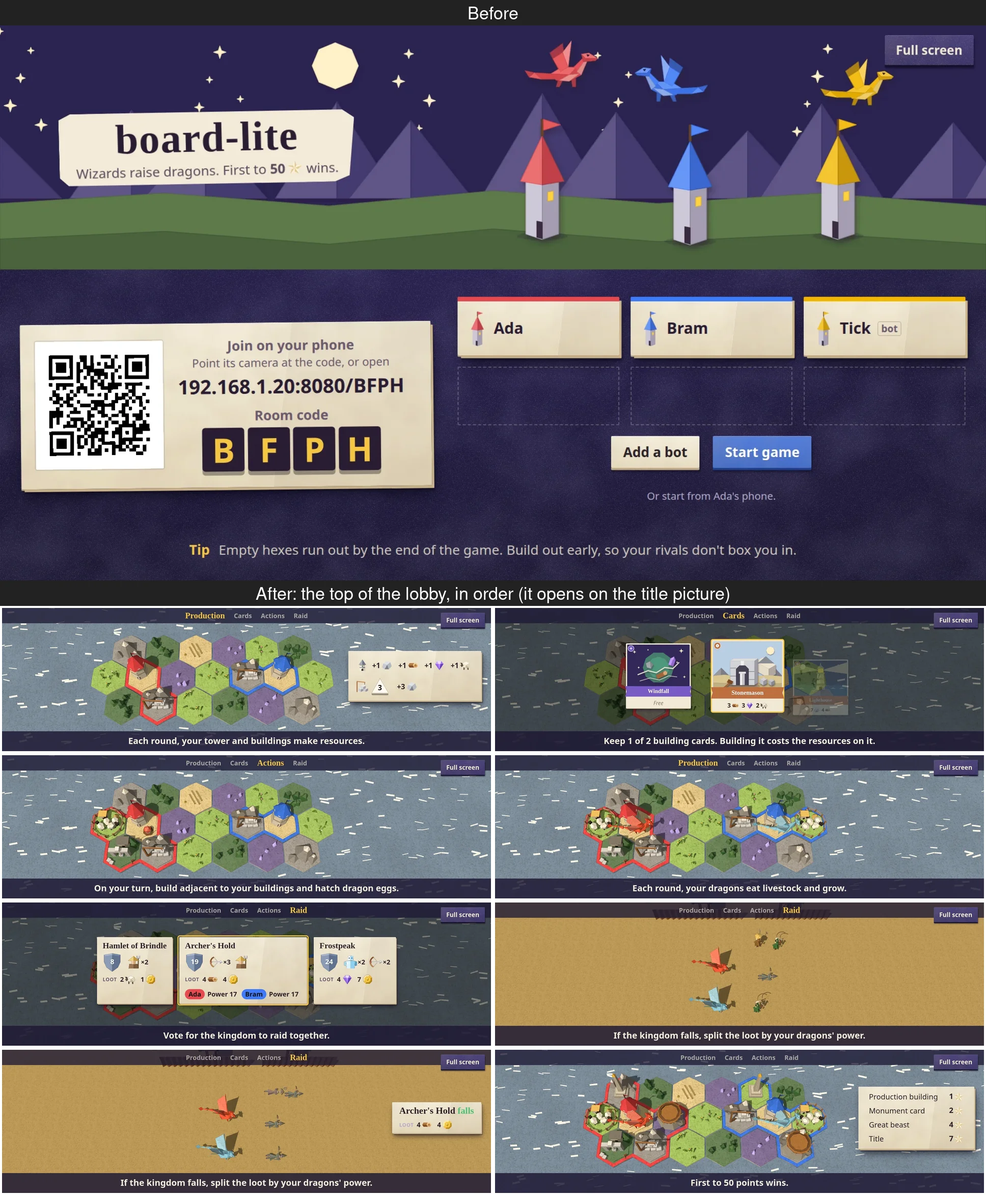
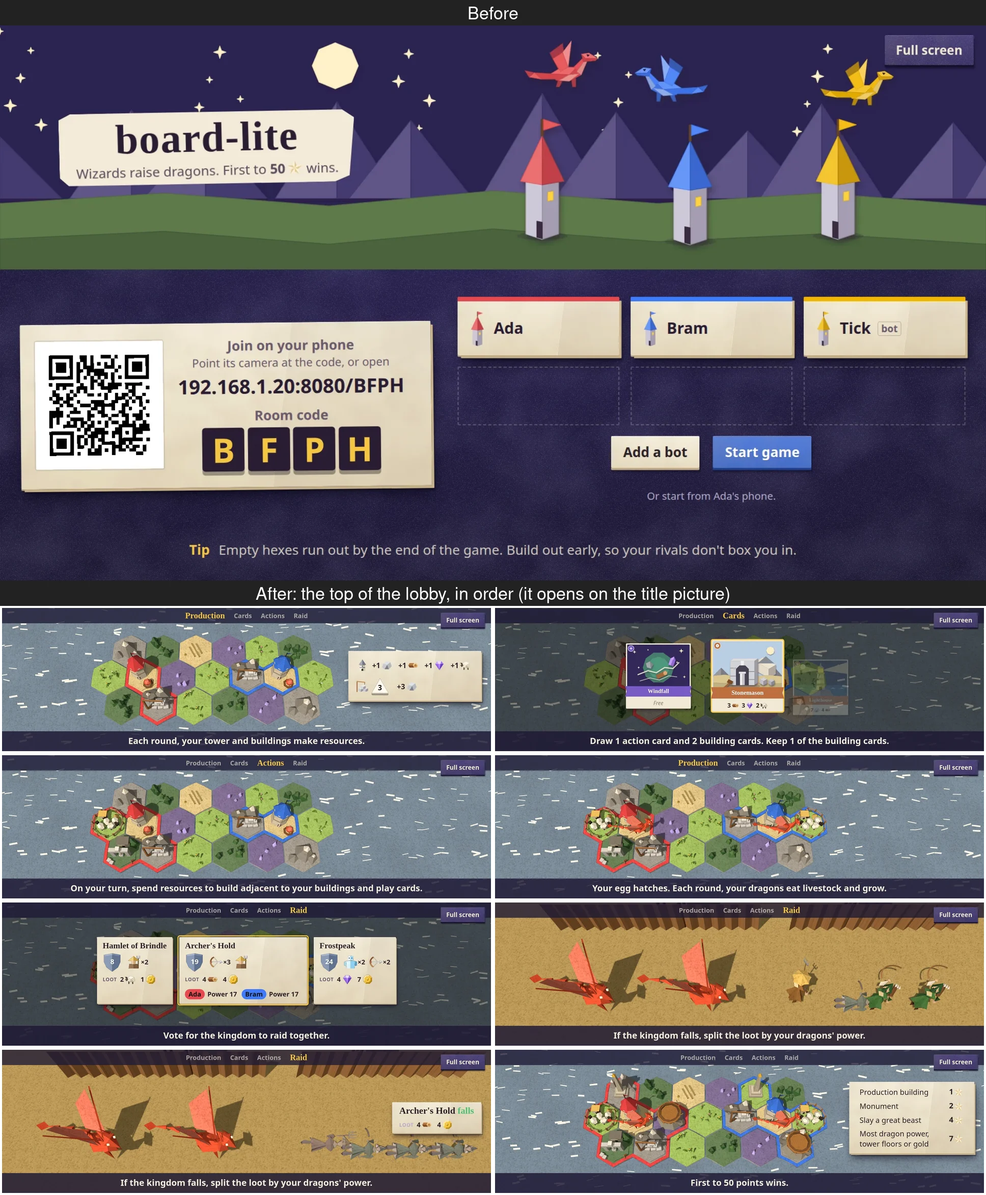
Explanation: goal first, starting eggs, clearer lines, a bigger fight
Claude-Session: https://claude.ai/code/session_01MEmTqEuaaD4rE1KihQ8Jct

diff --git a/web/explain.ts b/web/explain.ts
@@ -16,10 +16,10 @@ type Board = Pick<PublicState, 'map' | 'dragons'>;
 type Act = [at: number, run: () => void];
 
 const NAMES = ['Ada', 'Bram'];
-const ELEMENTS = ['fire', 'ice'];
+const ELEMENTS = ['fire', 'fire']; // everyone starts with a Fire Dragon egg
 
-// The board as it stands at `n`: the buildings so far, and Ada's dragon, an
-// egg from 3, a stage older at each of 4, 5 and 6 (when Bram's is too).
+// The board as it stands at `n`: the buildings so far, and each player's
+// Fire Dragon, an egg until 3, a stage older at each of 4, 5 and 6.
 function boardAt(n: number): Board {
   const map = HEXES.map(({ q, r, terrain }): HexView => {
     const b = BUILT.find((x) => x.at === `${q},${r}` && x.from <= n);
@@ -31,7 +31,7 @@ function boardAt(n: number): Board {
   const dragon = (owner: number, stage: number) => ({
     id: `x${owner}`, owner, name: '', element: ELEMENTS[owner], stage, perch: null, status: stage ? 'ready' : 'egg', canRaid: stage > 0, hp: 1, maxHp: 1,
   }) as DragonView;
-  return { map, dragons: n < 3 ? [] : [dragon(0, Math.min(3, n - 3)), ...(n >= 6 ? [dragon(1, 3)] : [])] };
+  return { map, dragons: [0, 1].map((p) => dragon(p, Math.min(3, Math.max(0, n - 3)))) };
 }
 
 export interface Explainer { title: (html: string) => void }
@@ -67,7 +67,8 @@ export function explain(el: HTMLElement, title: string, board: Board3D | null, s
       put(0);
       const rows = [`<div class="xrow">${buildingIcon('tower', 46, PLAYER_COLORS[0])}${gainChips(book!.tower.makes, 1.6)}</div>`, `<div class="xrow">${buildingIcon('quarry', 46, '#8d8f96')}<span class="xdie">${dieFace(4, 3, 'rolling')}</span></div>`];
       showBox.innerHTML = `<div class="xsheet">${rows.join('')}</div>`;
-      return [[2200, () => { showBox.querySelector('.xdie')!.innerHTML = `${dieFace(4, 3)}${gainChips({ stone: 3 }, 1.6)}`; }]];
+      const rolls: Act[] = [1, 4, 2, 4, 1, 2, 4, 1, 2, 4].map((n, i) => [(i + 1) * 180, () => { showBox.querySelector('.xdie b')!.textContent = String(n); }]);
+      return [...rolls, [2200, () => { showBox.querySelector('.xdie')!.innerHTML = `${dieFace(4, 3)}${gainChips({ stone: 3 }, 1.6)}`; }]];
     },
     cards: () => {
       put(0);
@@ -79,7 +80,7 @@ export function explain(el: HTMLElement, title: string, board: Board3D | null, s
     },
     actions: () => {
       put(0);
-      return [[1000, () => put(1)], [3200, () => put(2)], [5400, () => put(3)]];
+      return [[1000, () => put(1)], [3600, () => put(2)]];
     },
     grow: () => {
       put(3);
@@ -103,8 +104,11 @@ export function explain(el: HTMLElement, title: string, board: Board3D | null, s
       if (stage3d) {
         const stage = new stage3d.FightStage(t.key,
           ELEMENTS.map((element, i) => ({ key: `d${i}`, fighter: { dragon: { element, stage: 3 } }, maxHp: hps[i], label })),
-          t.units.map((u, i) => ({ key: `u${i}`, fighter: { foe: unit(u.name) }, maxHp: u.maxHp, label })), false, { top: 0.1, bottom: 0.22 });
-        stage.mount(fightBox);
+          t.units.map((u, i) => ({ key: `u${i}`, fighter: { foe: unit(u.name) }, maxHp: u.maxHp, label })), false, { top: 0.18, bottom: 0.2 }, true);
+        const box = document.createElement('div');
+        box.className = 'xstage';
+        fightBox.append(box);
+        stage.mount(box);
         hit = (from, to, falls) => { stage.strike(from); stage.hit(to); if (falls) stage.fall(to); };
       } else {
         fightBox.innerHTML = `${backdrop(t.key)}<div class="xflat"><div>${ELEMENTS.map((e, i) => `<span data-f="d${i}">${dragonFigure(e)}</span>`).join('')}</div><div>${t.units.map((u, i) => `<span data-f="u${i}">${unitFigure(unit(u.name))}</span>`).join('')}</div></div>`;

diff --git a/web/explain-steps.ts b/web/explain-steps.ts
@@ -11,11 +11,11 @@ export interface Step { show: Show; phase: string | null; text: string; ms: numb
 export const ROUND = ['Production', 'Cards', 'Actions', 'Raid'];
 
 export const STEPS: Step[] = [
-  { show: 'title', phase: null, text: '', ms: 5000 },
+  { show: 'title', phase: null, text: `Build, raise dragons and raid kingdoms. First to ${POINTS_TO_WIN} points wins.`, ms: 6000 },
   { show: 'production', phase: 'Production', text: 'Each round, your tower and buildings make resources.', ms: 7000 },
-  { show: 'cards', phase: 'Cards', text: 'Keep 1 of 2 building cards. Building it costs the resources on it.', ms: 8000 },
-  { show: 'actions', phase: 'Actions', text: 'On your turn, build adjacent to your buildings and hatch dragon eggs.', ms: 8500 },
-  { show: 'grow', phase: 'Production', text: 'Each round, your dragons eat livestock and grow.', ms: 6500 },
+  { show: 'cards', phase: 'Cards', text: 'Draw 1 action card and 2 building cards. Keep 1 of the building cards.', ms: 8000 },
+  { show: 'actions', phase: 'Actions', text: 'On your turn, spend resources to build adjacent to your buildings and play cards.', ms: 7500 },
+  { show: 'grow', phase: 'Production', text: 'Your egg hatches. Each round, your dragons eat livestock and grow.', ms: 6500 },
   { show: 'vote', phase: 'Raid', text: 'Vote for the kingdom to raid together.', ms: 6500 },
   { show: 'fight', phase: 'Raid', text: "If the kingdom falls, split the loot by your dragons' power.", ms: 7500 },
   { show: 'points', phase: null, text: `First to ${POINTS_TO_WIN} points wins.`, ms: 7000 },
@@ -24,9 +24,9 @@ export const STEPS: Step[] = [
 // Most of what scores, with its points.
 export const SCORES = [
   { name: 'Production building', points: 1 },
-  { name: 'Monument card', points: 2 },
-  { name: 'Great beast', points: 4 },
-  { name: 'Title', points: 7 },
+  { name: 'Monument', points: 2 },
+  { name: 'Slay a great beast', points: 4 },
+  { name: 'Most dragon power, tower floors or gold', points: 7 },
 ];
 
 // The building cards drawn, the first kept and then built; the kingdoms voted on; the one raided.

diff --git a/web/style.css b/web/style.css
@@ -187,7 +187,9 @@ svg.token { flex: none; }
 .explain .xphases { position: absolute; top: 0; left: 0; right: 0; list-style: none; margin: 0; padding: .4em 0; display: flex; justify-content: center; align-items: center; gap: 1.4em; height: 2.4em; box-sizing: border-box; font-size: 1.25em; font-weight: 600; color: #f3ead7a0; background: #1d1934c8; }
 .explain .xphases li.phase { color: var(--accent); font-family: var(--serif); font-size: 1.3em; font-weight: 800; }
 .explain .xtext { position: absolute; bottom: 0; left: 0; right: 0; margin: 0; padding: .4em 1em .5em; text-align: center; font-size: 1.7em; font-weight: 700; color: var(--text); background: #1d1934d8; }
-.explain[data-show="title"] :is(.xphases, .xtext) { display: none; }
+.explain[data-show="title"] .xphases { display: none; }
+/* Twice the size, shown at half: the room kept for plates and crowns, in pixels, halves. */
+.explain .xstage { position: absolute; left: 0; top: 0; width: 200%; height: 200%; transform: scale(.5); transform-origin: 0 0; }
 .explain .xshow { top: 3em; bottom: 4.4em; display: flex; align-items: center; justify-content: center; }
 .explain:is([data-show="cards"], [data-show="vote"]) .xboard { filter: brightness(.5); }
 .explain .xsheet { background: var(--sheet); color: var(--ink); border-radius: 2px; box-shadow: var(--lift); padding: .6em 1.4em; font-size: 1.15em; animation: enter .5s both; }
@@ -198,6 +200,8 @@ svg.token { flex: none; }
 .explain .xdie { display: inline-flex; align-items: center; gap: .8em; }
 .explain:is([data-show="production"], [data-show="fight"], [data-show="points"]) .xshow { justify-content: flex-end; padding-right: 2%; }
 .explain[data-show="fight"] .xsheet { font-size: 1em; }
+.explain .xscores span { max-width: 14em; }
+.explain .xscores b { white-space: nowrap; }
 .explain .xscores { display: flex; flex-direction: column; gap: .4em; font-size: 1.45em; }
 .explain .xscores span { display: flex; justify-content: space-between; align-items: center; gap: 1.5em; }
 .explain .xcards { display: flex; align-items: center; gap: 1.6em; }

diff --git a/web/board3d.ts b/web/board3d.ts
@@ -3498,12 +3498,14 @@ export class FightStage {
 
   private upright: boolean;
   private safe: { top: number; bottom: number };
+  private strip: boolean; // a wide, low stage: each side in one rank, seen from nearer
   private left: Standing[] = [];
   private foes: Standing[] = [];
   private boss: Standing | null = null;
 
-  constructor(place: string, left: FightFigure[], right: FightFigure[], upright: boolean, safe: { top: number; bottom: number }) {
+  constructor(place: string, left: FightFigure[], right: FightFigure[], upright: boolean, safe: { top: number; bottom: number }, strip = false) {
     this.upright = upright;
+    this.strip = strip;
     this.safe = safe;
     this.renderer = new THREE.WebGLRenderer({ antialias: true, preserveDrawingBuffer: true });
     this.renderer.setPixelRatio(Math.min(devicePixelRatio, 2));
@@ -3650,7 +3652,7 @@ export class FightStage {
   // across the columns, each as far in front of the one behind as its
   // tallest figure needs to leave that one, its plate and crown showing.
   private layout(fs: Standing[], side: 1 | -1) {
-    const per = this.upright ? PER_COLUMN.upright : PER_COLUMN.wide;
+    const per = this.strip ? 1 : this.upright ? PER_COLUMN.upright : PER_COLUMN.wide;
     const cols: Standing[][] = [];
     for (let i = 0; i < fs.length; i += per) cols.push(fs.slice(i, i + per));
     if (!cols.length) return;
@@ -3763,7 +3765,7 @@ export class FightStage {
       if (fits(mid)) hi = mid;
       else lo = mid;
     }
-    const d = Math.max(hi, 22);
+    const d = Math.max(hi, this.strip ? 14 : 22);
     // Then moved up or down the screen so what's drawn sits in the middle of the clear band.
     const e = extent(d);
     this.camera.setViewOffset(w, h, 0, (((top + bottom) - (e.hi + e.lo)) / 2) * (h / 2), w, h);

diff --git a/test/explain.test.ts b/test/explain.test.ts
@@ -21,9 +21,9 @@ test("its phases are the rules', and it shows each", () => {
 test("its numbers are the game's", () => {
   assert.ok(STEPS.at(-1)!.text.includes(`${TUNING.pointsToWin} points`));
   const worth = (name: string) => SCORES.find((s) => s.name === name)!.points;
-  assert.equal(worth('Title'), TUNING.titlePoints);
-  for (const b of Object.values(BEASTS)) assert.equal(worth('Great beast'), b.points);
-  assert.ok(rules.includes(`Monument cards (Monument, Standing Stones, Lighthouse, Guildhall): ${worth('Monument card')} each`));
+  assert.equal(worth('Most dragon power, tower floors or gold'), TUNING.titlePoints);
+  for (const b of Object.values(BEASTS)) assert.equal(worth('Slay a great beast'), b.points);
+  assert.ok(rules.includes(`Monument cards (Monument, Standing Stones, Lighthouse, Guildhall): ${worth('Monument')} each`));
   assert.ok(rules.includes(`Production buildings: ${worth('Production building')} each`));
   assert.ok(rules.includes('Draw 1 action card and 2 building cards; keep 1 of the building cards'));
 });
